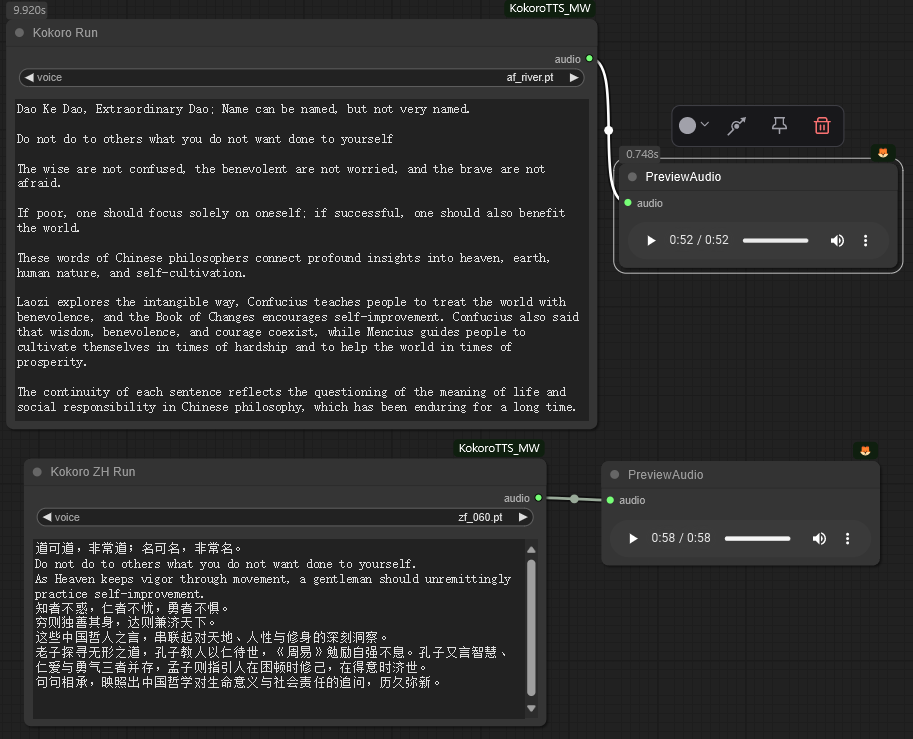
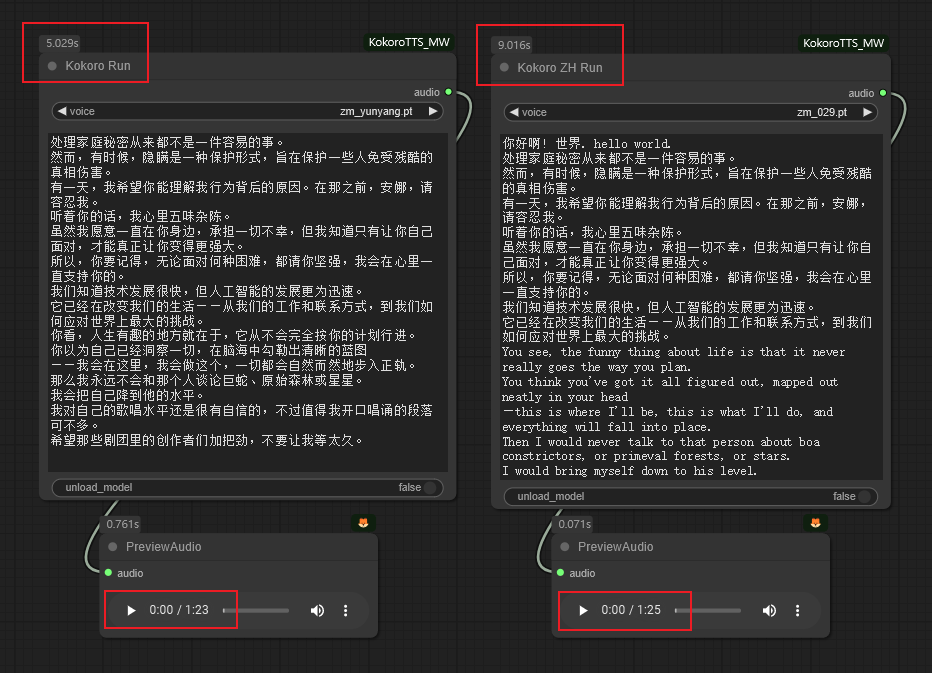
update v2.1.0

Changed region(s): [[0.0, 0.0, 1.0, 0.9673], [0.8587, 0.0624, 0.9507, 0.0936], [0.92, 0.5929, 0.9814, 0.6241]]

diff --git a/KokoroTextToSpeech.py b/KokoroTextToSpeech.py
@@ -87,7 +87,19 @@ all_speakers = []
 for speakers in SPEAKER_LANG_MAPPING.values():
     all_speakers.extend(speakers)
 
-zh_all_speakers = ['zf_001.pt', 'zf_002.pt', 'zf_003.pt', 'zf_004.pt', 'zf_005.pt', 'zf_006.pt', 'zf_007.pt', 'zf_008.pt', 'zf_017.pt', 'zf_018.pt', 'zf_019.pt', 'zf_021.pt', 'zf_022.pt', 'zf_023.pt', 'zf_024.pt', 'zf_026.pt', 'zf_027.pt', 'zf_028.pt', 'zf_032.pt', 'zf_036.pt', 'zf_038.pt', 'zf_039.pt', 'zf_040.pt', 'zf_042.pt', 'zf_043.pt', 'zf_044.pt', 'zf_046.pt', 'zf_047.pt', 'zf_048.pt', 'zf_049.pt', 'zf_051.pt', 'zf_059.pt', 'zf_060.pt', 'zf_067.pt', 'zf_070.pt', 'zf_071.pt', 'zf_072.pt', 'zf_073.pt', 'zf_074.pt', 'zf_075.pt', 'zf_076.pt', 'zf_077.pt', 'zf_078.pt', 'zf_079.pt', 'zf_083.pt', 'zf_084.pt', 'zf_085.pt', 'zf_086.pt', 'zf_087.pt', 'zf_088.pt', 'zf_090.pt', 'zf_092.pt', 'zf_093.pt', 'zf_094.pt', 'zf_099.pt', 'zm_009.pt', 'zm_010.pt', 'zm_011.pt', 'zm_012.pt', 'zm_013.pt', 'zm_014.pt', 'zm_015.pt', 'zm_016.pt', 'zm_020.pt', 'zm_025.pt', 'zm_029.pt', 'zm_030.pt', 'zm_031.pt', 'zm_033.pt', 'zm_034.pt', 'zm_035.pt', 'zm_037.pt', 'zm_041.pt', 'zm_045.pt', 'zm_050.pt', 'zm_052.pt', 'zm_053.pt', 'zm_054.pt', 'zm_055.pt', 'zm_056.pt', 'zm_057.pt', 'zm_058.pt', 'zm_061.pt', 'zm_062.pt', 'zm_063.pt', 'zm_064.pt', 'zm_065.pt', 'zm_066.pt', 'zm_068.pt', 'zm_069.pt', 'zm_080.pt', 'zm_081.pt', 'zm_082.pt', 'zm_089.pt', 'zm_091.pt', 'zm_095.pt', 'zm_096.pt', 'zm_097.pt', 'zm_098.pt', 'zm_100.pt']
+zh_all_speakers = ['zf_001.pt', 'zf_002.pt', 'zf_003.pt', 'zf_004.pt', 'zf_005.pt', 'zf_006.pt', 'zf_007.pt', 'zf_008.pt', 
+                   'zf_017.pt', 'zf_018.pt', 'zf_019.pt', 'zf_021.pt', 'zf_022.pt', 'zf_023.pt', 'zf_024.pt', 'zf_026.pt', 
+                   'zf_027.pt', 'zf_028.pt', 'zf_032.pt', 'zf_036.pt', 'zf_038.pt', 'zf_039.pt', 'zf_040.pt', 'zf_042.pt', 
+                   'zf_043.pt', 'zf_044.pt', 'zf_046.pt', 'zf_047.pt', 'zf_048.pt', 'zf_049.pt', 'zf_051.pt', 'zf_059.pt', 
+                   'zf_060.pt', 'zf_067.pt', 'zf_070.pt', 'zf_071.pt', 'zf_072.pt', 'zf_073.pt', 'zf_074.pt', 'zf_075.pt', 
+                   'zf_076.pt', 'zf_077.pt', 'zf_078.pt', 'zf_079.pt', 'zf_083.pt', 'zf_084.pt', 'zf_085.pt', 'zf_086.pt', 
+                   'zf_087.pt', 'zf_088.pt', 'zf_090.pt', 'zf_092.pt', 'zf_093.pt', 'zf_094.pt', 'zf_099.pt', 'zm_009.pt', 
+                   'zm_010.pt', 'zm_011.pt', 'zm_012.pt', 'zm_013.pt', 'zm_014.pt', 'zm_015.pt', 'zm_016.pt', 'zm_020.pt', 
+                   'zm_025.pt', 'zm_029.pt', 'zm_030.pt', 'zm_031.pt', 'zm_033.pt', 'zm_034.pt', 'zm_035.pt', 'zm_037.pt', 
+                   'zm_041.pt', 'zm_045.pt', 'zm_050.pt', 'zm_052.pt', 'zm_053.pt', 'zm_054.pt', 'zm_055.pt', 'zm_056.pt', 
+                   'zm_057.pt', 'zm_058.pt', 'zm_061.pt', 'zm_062.pt', 'zm_063.pt', 'zm_064.pt', 'zm_065.pt', 'zm_066.pt', 
+                   'zm_068.pt', 'zm_069.pt', 'zm_080.pt', 'zm_081.pt', 'zm_082.pt', 'zm_089.pt', 'zm_091.pt', 'zm_095.pt', 
+                   'zm_096.pt', 'zm_097.pt', 'zm_098.pt', 'zm_100.pt']
 
 node_dir = os.path.dirname(os.path.abspath(__file__))
 comfy_path = os.path.dirname(os.path.dirname(node_dir))
@@ -103,6 +115,7 @@ zh_voices_path = os.path.join(zh_kokoro_path, "voices")
 
 
 class KokoroRun:
+    model_cache = None
     @classmethod
     def INPUT_TYPES(s):
         return {
@@ -111,14 +124,15 @@ class KokoroRun:
                 "text": ("STRING", {
                     "multiline": True, 
                     "default": "你好啊! 世界."
-                })
+                }),
+                "unload_model": ("BOOLEAN", {"default": False}),
             },
         }
 
     RETURN_TYPES = ("AUDIO",)
     RETURN_NAMES = ("audio",)
     FUNCTION = "generate"
-    CATEGORY = "MW-KokoroTTS"
+    CATEGORY = "MW/MW-KokoroTTS"
 
     def _get_lang(self, voice):
         if voice in all_speakers:
@@ -128,11 +142,15 @@ class KokoroRun:
         else:
             raise ValueError("This is a unsupported voice")
 
-    def generate(self, text, voice):
+    def generate(self, text, voice, unload_model):
         device = 'cuda' if torch.cuda.is_available() else 'cpu'
-        model = KModel(
-                    config = kk_config_path,
-                    model = kk_model_path).to(device).eval()
+        if self.model_cache is None:      
+            model = KModel(
+                        config = kk_config_path,
+                        model = kk_model_path).to(device).eval()
+            self.model_cache = model
+        else:
+            model = self.model_cache
 
         lang = self._get_lang(voice)
         pipeline = KPipeline(lang_code=lang, repo_id=None, model=model)
@@ -145,14 +163,22 @@ class KokoroRun:
                 audio_data.append(data)
             audio_tensor = torch.from_numpy(np.concatenate(audio_data, axis=0)).unsqueeze(0).unsqueeze(0).float()
             logger.info(f"Generated audio with shape: {audio_tensor.shape}")
+            if unload_model:
+                del model
+                self.model_cache = None
+                torch.cuda.empty_cache()
             return ({"waveform": audio_tensor, "sample_rate": 24000},)
         except Exception as e:
             logger.error(f"Generation failed: {str(e)}")
+            if unload_model:
+                del model
+                self.model_cache = None
+                torch.cuda.empty_cache()
             raise
 
 
-
 class KokoroZHRun:
+    model_cache = None
     @classmethod
     def INPUT_TYPES(s):
         return {
@@ -161,18 +187,27 @@ class KokoroZHRun:
                 "text": ("STRING", {
                     "multiline": True, 
                     "default": "你好啊! 世界."
-                })
+                }),
+                "unload_model": ("BOOLEAN", {"default": False}),
             },
         }
 
     RETURN_TYPES = ("AUDIO",)
     RETURN_NAMES = ("audio",)
     FUNCTION = "generate"
-    CATEGORY = "MW-KokoroTTS"
-    def generate(self, text, voice):
+    CATEGORY = "MW/MW-KokoroTTS"
+    def generate(self, text, voice, unload_model):
         REPO_ID = 'hexgrad/Kokoro-82M-v1.1-zh'
-
         device = 'cuda' if torch.cuda.is_available() else 'cpu'
+        if self.model_cache is None:
+            model = KModel(
+                        repo_id=REPO_ID,
+                        config = zh_kk_config_path,
+                        model = zh_kk_model_path).to(device).eval()
+            self.model_cache = model
+        else:
+            model = self.model_cache
+
         zh_model = KModel(
                     repo_id=REPO_ID,
                     config = zh_kk_config_path,
@@ -210,9 +245,17 @@ class KokoroZHRun:
                 audio_data.append(np.zeros(5000))
             audio_tensor = torch.from_numpy(np.concatenate(audio_data, axis=0)).unsqueeze(0).unsqueeze(0).float()
             logger.info(f"Generated audio with shape: {audio_tensor.shape}")
+            if unload_model:
+                del model
+                self.model_cache = None
+                torch.cuda.empty_cache()
             return ({"waveform": audio_tensor, "sample_rate": 24000},)
         except Exception as e:
             logger.error(f"Generation failed: {str(e)}")
+            if unload_model:
+                del model
+                self.model_cache = None
+                torch.cuda.empty_cache()
             raise
 
 

diff --git a/README.md b/README.md
@@ -6,6 +6,8 @@
 
 ## 📣 Update
 
+[2025-03-22] ⚒: Refactored code, faster generation speed. 
+
 [2025-03-05]⚒: Supports 8 languages and 150 voices.
 
 - New language support added: 

diff --git a/README-CN.md b/README-CN.md
@@ -6,6 +6,8 @@
 
 ## 📣 更新
 
+[2025-03-22]⚒: 重构代码, 更快的生成速度.
+
 [2025-03-05]⚒: 支持 8 种语言, 150 种音色.
 
 - 新增语言支持: 
